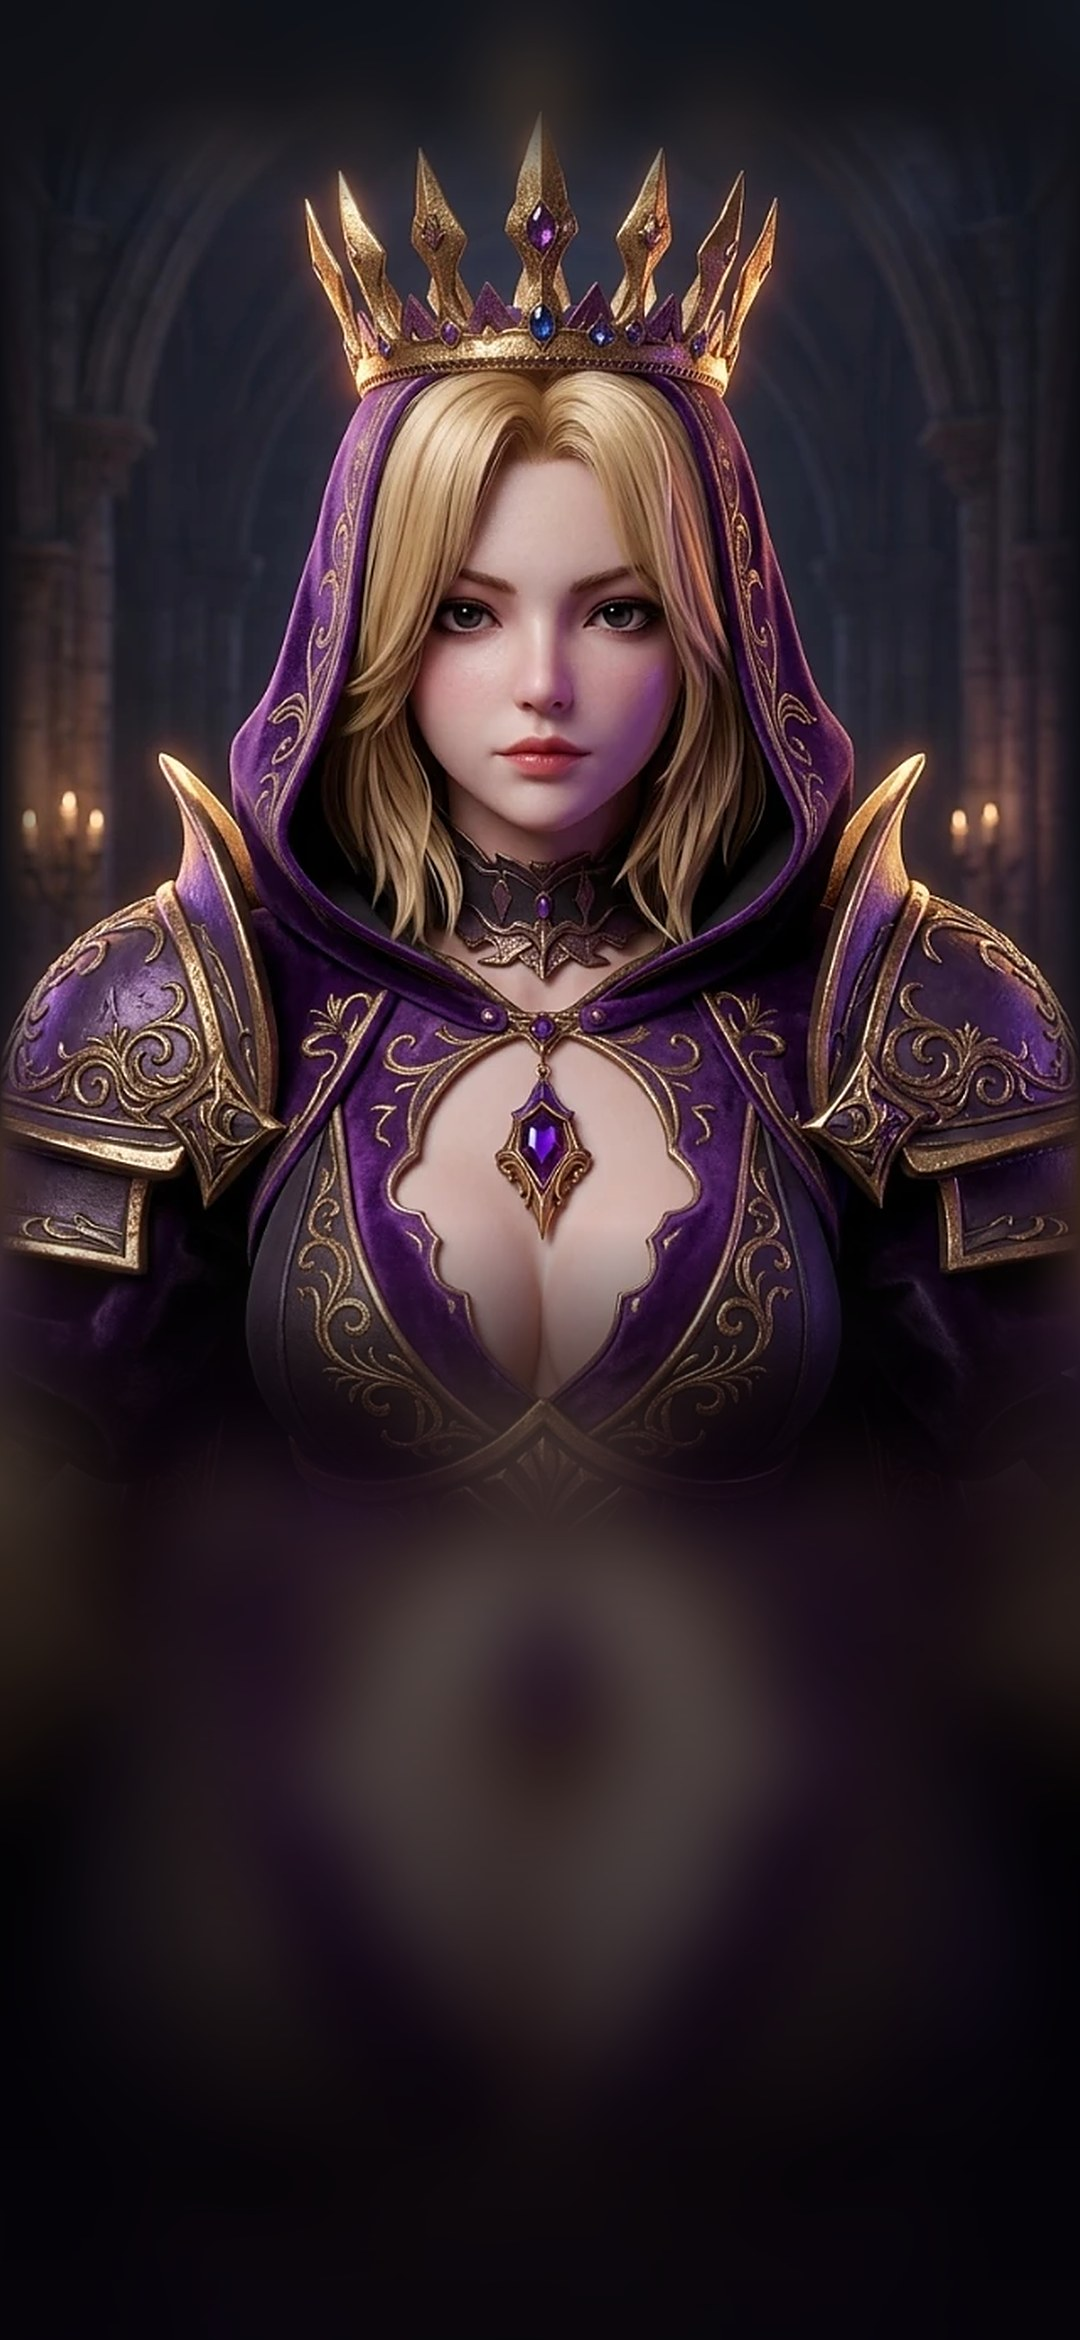
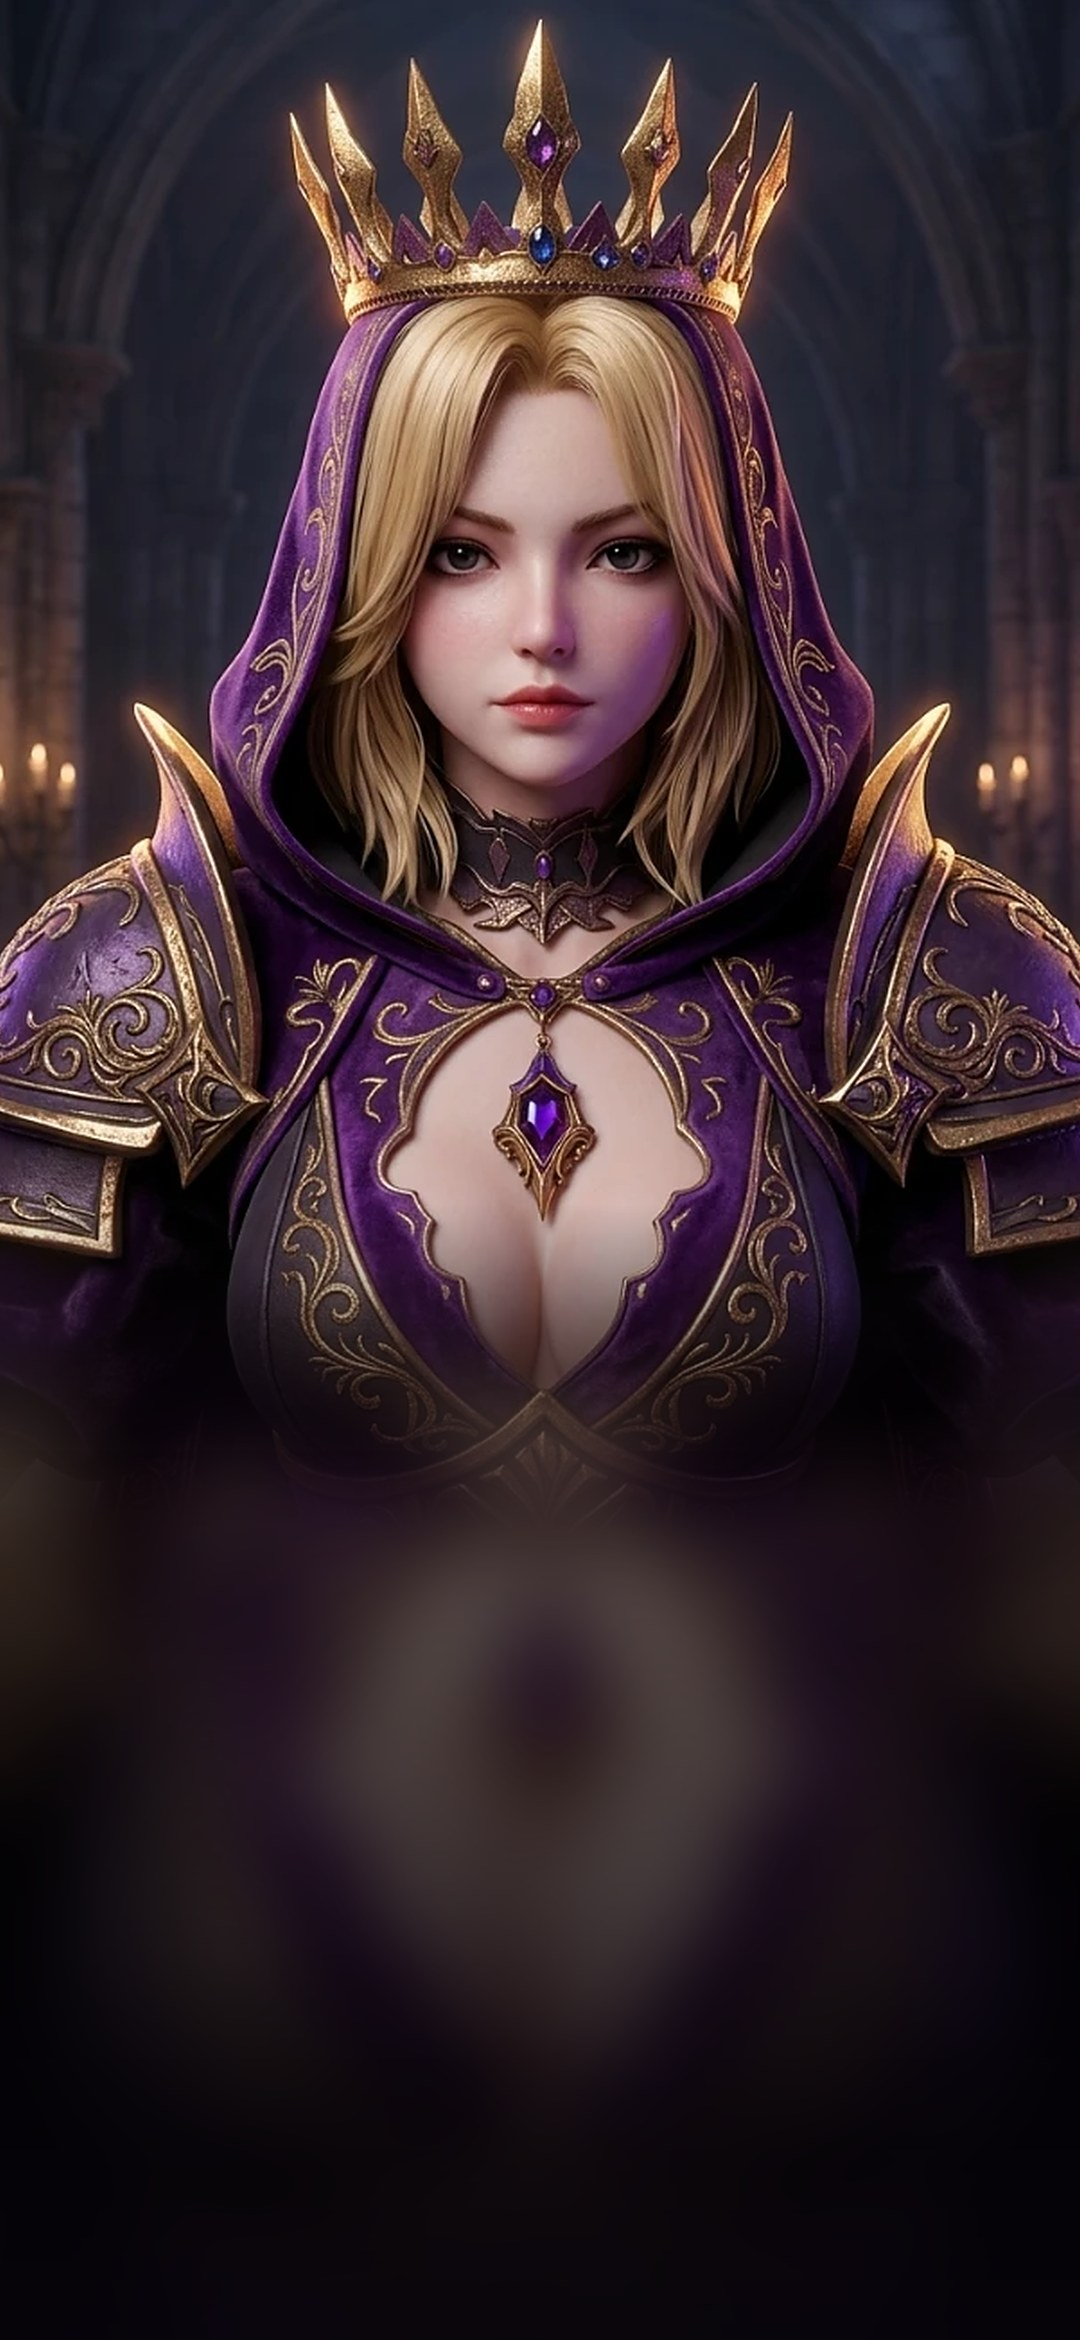
Eğitim kapalı, yükleme ekranı kenarsız ve SHADOWREND logolu; 1.0.11
- Savaş koçu (ilk adım plakaları) kapatıldı; oyun eğitimle açılmaz
- Yükleme görselleri üst kenara yaslı, yan kenar geçişleri kaldırıldı (köşelerde açıklık
  kalmaz)
- Yükleme ekranının üstünde açılış yakalamasındaki SHADOWREND logosu + okunurluk gölgesi

Claude-Session: https://claude.ai/code/session_01Lq1FkJnAaZAVa2GwpQhauD

Changed region(s): [[0.0, 0.0, 1.0, 0.5927], [0.5194, 0.5615, 0.5806, 0.5927], [0.5806, 0.5303, 0.6111, 0.5615]]

diff --git a/godot/tools/bake/ui/loading_art.py b/godot/tools/bake/ui/loading_art.py
@@ -24,20 +24,18 @@ for f in sorted(glob.glob(SRC + '/*_full.*')):
     bg = ImageEnhance.Brightness(bg).enhance(0.45)
     # net görsel: genişliğe otur; yatay görsel ekranın en az %62'sini kaplayacak kadar büyür
     # (yanlardan ortalı kırpılır)
-    s = max(W / im.width, 0.62 * H / im.height)
+    s = max(W / im.width, 0.66 * H / im.height)
     art = im.resize((int(im.width * s), int(im.height * s)), Image.LANCZOS)
     if art.width > W:
         cx = (art.width - W) // 2
         art = art.crop((cx, 0, cx + W, art.height))
     if s > 1.2: art = art.filter(ImageFilter.UnsharpMask(radius=1.6, percent=55, threshold=2))
-    y0 = int(TOP.get(hid, 0.1) * H)
+    y0 = 0                                  # üst kenara yaslı: kenarda açıklık kalmaz
     a = np.ones((art.height, W), np.float32)
     fe = int(art.height * 0.22)             # alt kenar yumuşak geçiş
     ft = int(art.height * 0.08) if y0 > 0 else 0
     for i in range(fe): a[art.height - 1 - i, :] = (i / fe) ** 1.4
     for i in range(ft): a[i, :] = min(a[i, 0], (i / ft) ** 1.2)
-    sx = int(W * 0.05)                      # yan kenarlar hafif
-    for j in range(sx): a[:, j] *= (j / sx) ** 0.8; a[:, W - 1 - j] *= (j / sx) ** 0.8
     mask = Image.fromarray((a * 255).astype(np.uint8))
     out = bg.copy(); out.paste(art, (0, y0), mask)
     # alt: yazı için koyu geçiş
